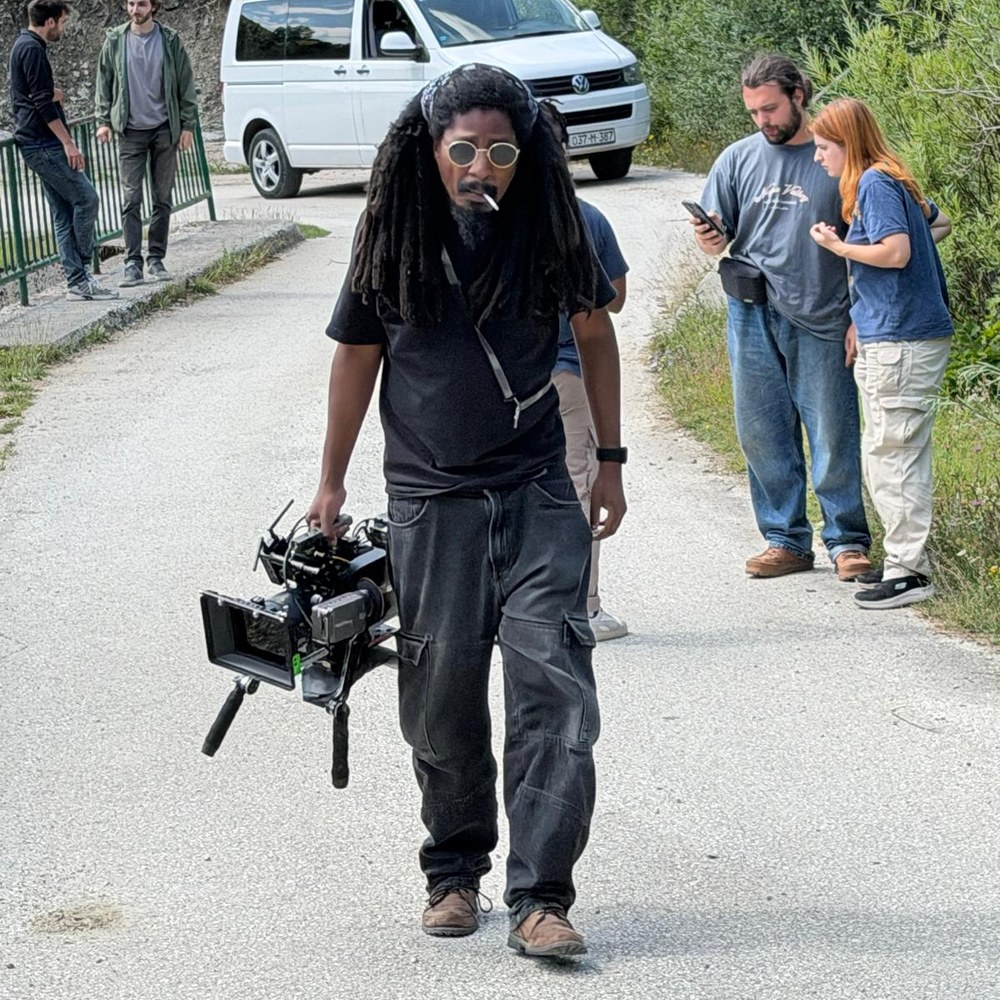
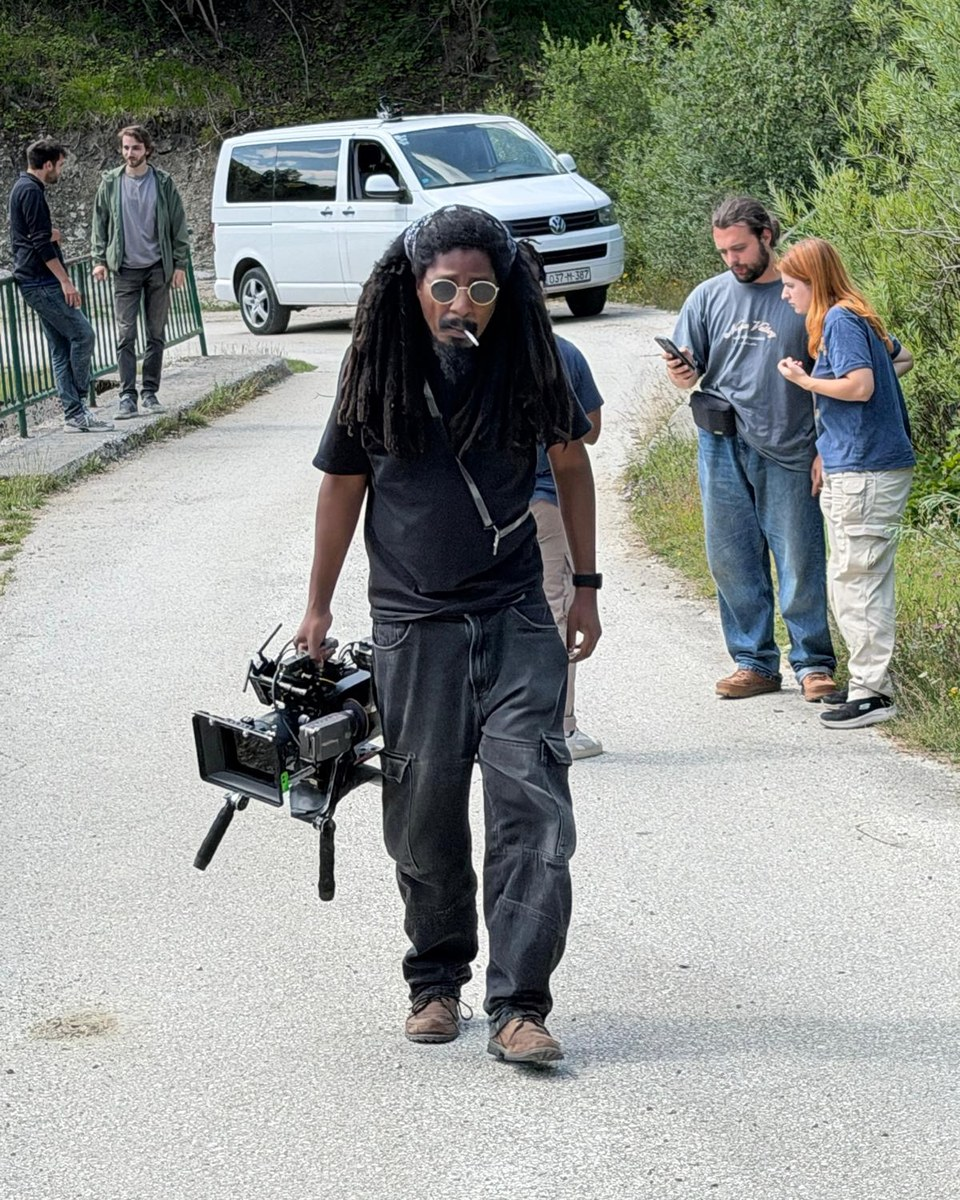
Add files via upload

diff --git a/app/a-propos/page.js b/app/a-propos/page.js
@@ -2,6 +2,8 @@ import Image from 'next/image';
 import Link from 'next/link';
 import photoHugo from '@/public/media/a-propos/hugo-plateau.jpg';
 import photoCamera from '@/public/media/a-propos/camera.jpg';
+import photoLumiere from '@/public/media/a-propos/lumiere.jpg';
+import photoPlateauCafe from '@/public/media/a-propos/plateau-cafe.jpg';
 import Placeholder from '@/components/Placeholder';
 
 export const metadata = {
@@ -71,18 +73,23 @@ export default function AProposPage() {
             <p>Parmi leurs références, <strong>Luca Salvi, chef opérateur, a participé à INC.</strong> (sélection EnergaCAMERIMAGE 2023) et à <strong>Jupiter</strong> (prix ARRI Rental 2021). <strong>Martin Gérard, monteur et motion designer, a participé à Smoke in the Wind</strong>, récompensé au Berlin Short Film Festival 2026.</p>
             <p><strong>Avec VATEA, vous bénéficiez de cette expertise cinématographique pour vos productions vidéo, avec un interlocuteur unique pour coordonner votre projet de A à Z.</strong></p>
           </div>
-          <div style={{ flex: '1 1 440px', display: 'grid', gridTemplateColumns: 'repeat(2, minmax(0, 1fr))', gap: 14 }}>
-            {/* Photos des métiers : ajouter `src` quand la photo est fournie */}
+          {/* 4 photos qui forment un carré : 2 verticales (4:5) + 2 horizontales (4:3), en damier.
+              Ajouter `src` quand la photo est fournie. */}
+          <div className="damier" style={{ flex: '1 1 440px' }}>
             {[
-              { label: 'caméra', src: photoCamera, alt: 'Cadreur portant une caméra cinéma sur un tournage en extérieur' },
-              { label: 'lumière' },
-              { label: 'son' },
-              { label: 'monteur' },
-            ].map((m) => (m.src ? (
-              <figure key={m.label} className="photo-metier photo-carre">
-                <Image src={m.src} placeholder="blur" quality={82} sizes="(max-width: 768px) 46vw, 320px" alt={m.alt} />
-              </figure>
-            ) : <Placeholder key={m.label} label={`Photo — ${m.label}`} framed ratio="1 / 1" />))}
+              { label: 'caméra', forme: 'v', zone: 'a', src: photoCamera, alt: 'Cadreur portant une caméra cinéma sur un tournage en extérieur' },
+              { label: 'lumière', forme: 'h', zone: 'b', src: photoLumiere, alt: 'Installation des projecteurs sur une structure en extérieur au coucher du soleil' },
+              { label: 'tournage', forme: 'h', zone: 'c', src: photoPlateauCafe, alt: 'Tournage d’une scène dans un café avec une caméra cinéma' },
+              { label: 'monteur', forme: 'v', zone: 'd' },
+            ].map((m) => (
+              <div key={m.label} style={{ gridArea: m.zone }}>
+                {m.src ? (
+                  <figure className="photo-metier photo-damier">
+                    <Image src={m.src} placeholder="blur" quality={82} sizes="(max-width: 768px) 46vw, 320px" alt={m.alt} />
+                  </figure>
+                ) : <Placeholder label={`Photo ${m.forme === 'v' ? 'verticale' : 'horizontale'} — ${m.label}`} framed ratio="auto" style={{ height: '100%' }} />}
+              </div>
+            ))}
           </div>
         </div>
       </section>

diff --git a/app/globals.css b/app/globals.css
@@ -280,5 +280,7 @@ video.video-pres { object-fit: contain; }
 .photo-metier img { width: 100%; height: auto; display: block; transition: transform .6s ease; }
 .photo-metier:hover img { transform: scale(1.04); }
 
-.photo-carre { aspect-ratio: 1 / 1; border-radius: 20px; box-shadow: none; }
-.photo-carre img { height: 100%; object-fit: cover; }
+/* À propos : damier de 4 photos formant un carré (verticales 4:5 en haut à gauche et en bas à droite) */
+.damier { display: grid; aspect-ratio: 1 / 1; grid-template-columns: 1fr 1fr; grid-template-rows: 3fr 2fr 3fr; grid-template-areas: 'a b' 'a d' 'c d'; gap: 14px; }
+.photo-damier { height: 100%; border-radius: 20px; box-shadow: none; }
+.photo-damier img { height: 100%; object-fit: cover; }
